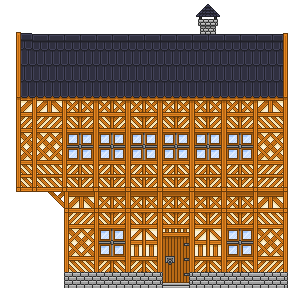
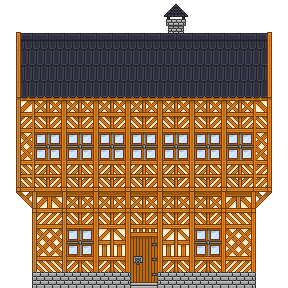
Show dungeons beneath the buildings

Changed region(s): [[0.0625, 0.0, 1.0, 1.0]]

diff --git a/src/daprojects_webapp/static/css/styles.css b/src/daprojects_webapp/static/css/styles.css
@@ -818,7 +818,7 @@ margin-bottom: -30px;
     width: 50px;
     height: 50px;
     position: absolute;
-    top: 0px;
+    top: 0;
     left: 65px;
 }
 
@@ -855,8 +855,8 @@ margin-bottom: -30px;
 
 .city_skyline .city_underground {
     position: absolute;
-    bottom: 0px;
-    left: 0px;
+    bottom: 0;
+    left: 0;
     height: 256px;
     width: 100%;
     background: url(../images/city/ground_underground.png) top left repeat;
@@ -865,7 +865,7 @@ margin-bottom: -30px;
 .city_skyline .city_buildings {
     position: absolute;
     bottom: 384px;
-    left: 0px;
+    left: 0;
     width: 100%;
 }
 
@@ -879,8 +879,9 @@ margin-bottom: -30px;
 .city_skyline .city_building .building_name {
     position: absolute;
     bottom: -25px;
-    left: 0px;
+    left: 0;
     width: 100%;
+    z-index: 10;
 }
 
 .city_skyline .city_building .building_name p {
@@ -891,3 +892,36 @@ margin-bottom: -30px;
     color: black;
     background: url(../images/maps/city_name.png);
 }
+
+.city_skyline .city_building .dungeon_wrapper {
+    position: absolute;
+    bottom: -92px;
+    left: 0;
+    width: 100%;
+    z-index: 1;
+}
+
+.city_skyline .city_building .dungeon {
+    margin: 0 auto;
+    width: 100%;
+    display: flex;
+}
+
+.city_skyline .city_building .dungeon_left {
+    height: 96px;
+    min-width: 32px;
+    background: url(../images/city/dungeon_left.png) top left repeat;
+}
+
+.city_skyline .city_building .dungeon_body {
+    height: 96px;
+    width: 100%;
+    background: url(../images/city/dungeon_body.png) top left repeat;
+}
+
+.city_skyline .city_building .dungeon_right {
+    height: 96px;
+    min-width: 32px;
+    background: url(../images/city/dungeon_right.png) top left repeat;
+}
+

diff --git a/src/daprojects_webapp/templates/daprojects_webapp/module.html b/src/daprojects_webapp/templates/daprojects_webapp/module.html
@@ -21,6 +21,13 @@
                             <img src="{% static 'images/city/building_'%}{% cycle '1' '2' '3' %}.png" />
                             <div class="building_name"><p>{% if child_module.name %}{{ child_module.name }}{% else %}{{ child_module.slug }}{% endif %}</p></div>
                         </a>
+                        <div class="dungeon_wrapper">
+                            <div class="dungeon">
+                                <div class="dungeon_left"></div>
+                                <div class="dungeon_body"></div>
+                                <div class="dungeon_right"></div>
+                            </div>
+                        </div>
                     </div>
                 {% endfor %}
             </div>
